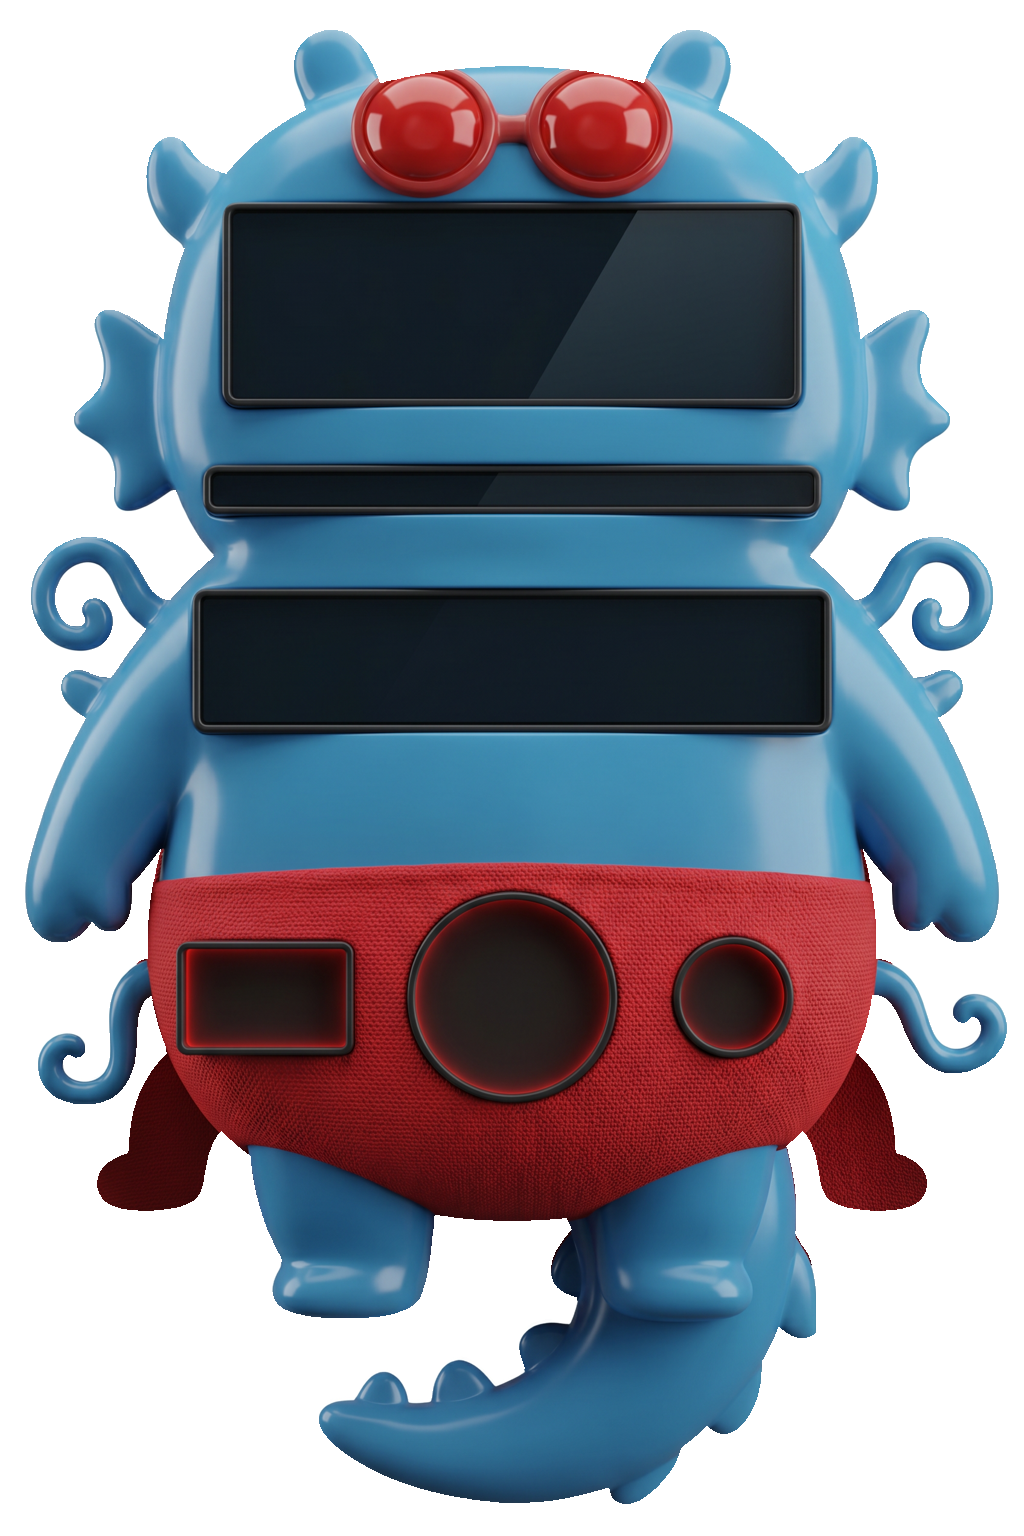
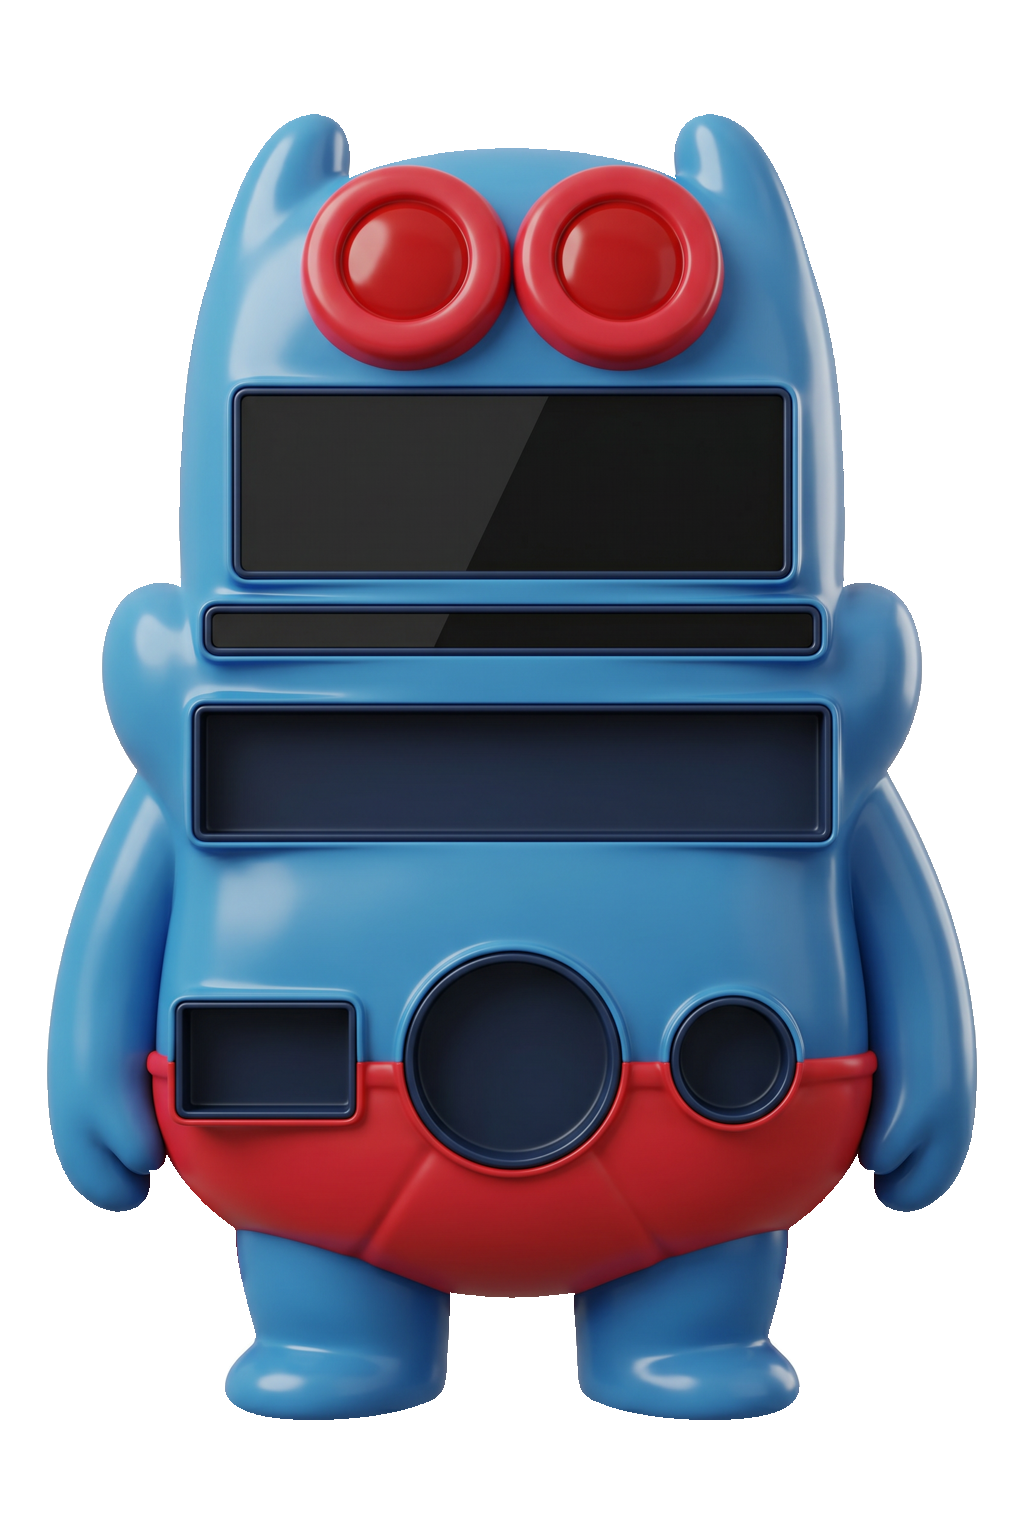
Man Ray: reference-driven silhouette + eyes on head (follow ref harder)
- Envelope generation now follows the REFERENCE image's shape, not just the text
  brief: gen_envelope takes ref_urls and the ENVELOPE_PROMPT steers the grown
  silhouette to the reference character's outline. Refs uploaded up front in
  main() (shape + paint).
- layout_manray: lowered the visualizer onto the chest so the upper head is free
  for the character's big round eyes (they were getting covered).
- Regenerated manray: upright front-facing chubby blue baby, red goggle-eyes,
  red diaper — clearly the reference character, controls placed properly (an
  over-literal pass rendered the crawling pose with floating controls; upright +
  reference-character is the sweet spot).

diff --git a/src/export/MotionScenes.tsx b/src/export/MotionScenes.tsx
@@ -13,18 +13,19 @@ const POOL = [
   "frog", "bondi", "burger", "maw", "halo", "biomech", "wmp", "scarab",
   "pebble", "obelisk", "vortex", "flesh", "tomato", "mexico", "slab",
 ];
-const slice = (start: number, n: number) =>
-  Array.from({ length: n }, (_, i) => POOL[(start + i) % POOL.length]);
+const slice = (arr: string[], start: number, n: number) =>
+  Array.from({ length: n }, (_, i) => arr[(start + i) % arr.length]);
 
 /* STREAMS — vertical columns of live devices scrolling in alternating
    directions, varied speed. Seamless: each column renders its set twice. */
-function Streams({ cols }: { cols: number }) {
+function Streams({ cols, skins }: { cols: number; skins: string[] }) {
   const dur = [24, 19, 28, 22, 26];
   const w = Math.round((1080 - 80) / cols - 26);   // fit width, no horizontal clip
+  const per = Math.max(2, Math.ceil(skins.length / cols));
   return (
     <div className="mg-streams" style={{ ["--cols" as string]: cols }}>
       {Array.from({ length: cols }, (_, c) => {
-        const items = slice(c * 3, 2);
+        const items = slice(skins, c * per, per);
         return (
           <div className="mg-col" key={c}>
             <div className={`mg-col-track ${c % 2 === 0 ? "up" : "down"}`} style={{ animationDuration: `${dur[c % dur.length]}s` }}>
@@ -42,7 +43,7 @@ function Swarm() {
   const N = 4;
   const lane = (dir: string, start: number) => (
     <div className={`mg-diag ${dir}`}>
-      {slice(start, N).map((id, i) => (
+      {slice(POOL, start, N).map((id, i) => (
         <div className="mg-fly" key={i} style={{ animationDelay: `${-(i * (14 / N)).toFixed(2)}s` }}>
           <Device skin={id} w={300} />
         </div>
@@ -53,8 +54,8 @@ function Swarm() {
 }
 
 /* PARADE — a horizontal conveyor of live devices, gentle bob. */
-function Parade() {
-  const items = slice(0, 4);
+function Parade({ skins }: { skins: string[] }) {
+  const items = skins.length <= 6 ? skins : slice(skins, 0, 5);
   return (
     <div className="mg-parade">
       <div className="mg-parade-track">
@@ -70,8 +71,8 @@ function Parade() {
 
 /* ORBIT — a ring of live skins revolving around a featured center, each
    counter-rotating to stay upright. */
-function Orbit({ center }: { center: string }) {
-  const ring = slice(1, 7).filter((s) => s !== center).slice(0, 6);
+function Orbit({ center, skins }: { center: string; skins: string[] }) {
+  const ring = skins.filter((s) => s !== center).slice(0, 6);
   const n = ring.length;
   return (
     <div className="mg-orbit">
@@ -89,7 +90,7 @@ function Orbit({ center }: { center: string }) {
 
 /* CASCADE — live devices fall in staggered with a springy ease, then float. */
 function Cascade() {
-  const items = slice(2, 8);
+  const items = slice(POOL, 2, 8);
   return (
     <div className="mg-cascade">
       {items.map((id, i) => (
@@ -126,15 +127,16 @@ function Fan({ mode, anchor }: { mode: "static" | "out" | "in"; anchor: "center"
 }
 
 export function MotionScenes({ scene, cfg, center }: { scene: string; cfg: Cfg; center?: string }) {
+  const P = cfg.skins && cfg.skins.length ? cfg.skins : POOL;
   const body =
     scene === "swarm" ? <Swarm /> :
-    scene === "parade" ? <Parade /> :
-    scene === "orbit" ? <Orbit center={center ?? "maw"} /> :
+    scene === "parade" ? <Parade skins={P} /> :
+    scene === "orbit" ? <Orbit center={center ?? "maw"} skins={P} /> :
     scene === "cascade" ? <Cascade /> :
     scene === "fan" ? <Fan mode="static" anchor="center" /> :
     scene === "fanout" ? <Fan mode="out" anchor="center" /> :
     scene === "fanbottom" ? <Fan mode="static" anchor="bottom" /> :
     scene === "fanin" ? <Fan mode="in" anchor="bottom" /> :
-    <Streams cols={cfg.cols || 3} />;
+    <Streams cols={cfg.cols || 3} skins={P} />;
   return <div className={`mg-stage scene-${scene}`}>{body}</div>;
 }

diff --git a/generation/wild_sculpt.py b/generation/wild_sculpt.py
@@ -127,10 +127,12 @@ def gen_silhouette(brief, out_id, sil_path=None):
 ENVELOPE_PROMPT = (
     "Keep every dark control socket, round well, ring groove and dark screen EXACTLY where it is, "
     "pixel-identical, unchanged. Around and BEHIND them, paint ONE flat solid dark-gray SILHOUETTE "
-    "shape on the pure white background: the outline of {brief}. The silhouette must fully CONTAIN "
-    "every socket and screen with generous margin on all sides, and its wild parts — horns, fins, "
-    "tendrils, legs, jaws — grow outward from that mass. Completely flat dark-gray fill, no interior "
-    "detail, no shading, no outline strokes. Everything else stays pure white."
+    "shape on the pure white background: the outline of {brief}. If a REFERENCE image is provided, "
+    "the silhouette MUST closely follow that reference character's distinctive OUTLINE — its head "
+    "shape, body proportions, ears/horns, arms, legs, tail and pose — NOT a generic rounded blob. "
+    "The silhouette must still fully CONTAIN every socket and screen with margin; grow/inflate the "
+    "reference's body where needed so the controls fit inside it. Completely flat dark-gray fill, no "
+    "interior detail, no shading, no outline strokes. Everything else stays pure white."
 )
 
 def layout_radial():
@@ -268,18 +270,19 @@ def layout_manray():
                      "layer": kw.pop("layer", "components"),
                      "rect": {"x": x/W, "y": y/H, "w": w/W, "h": h/H}, **kw})
     cx = W/2
-    # wide visualizer set into the flat manta-ray head
-    vw, vh = W*0.56, H*0.130
-    add("visualizer", "display", cx-vw/2, H*0.135, vw, vh,
+    # leave the UPPER head (top ~18%) free for the character's big eyes — the
+    # visualizer sits on the chest below the face, not over the eyes
+    vw, vh = W*0.54, H*0.120
+    add("visualizer", "display", cx-vw/2, H*0.255, vw, vh,
         content="dynamic", layer="screen", dynamicType="visualizer")
-    # marquee strip under the head
-    add("marquee", "display", cx-W*0.30, H*0.305, W*0.60, 46,
+    # marquee strip under the visualizer
+    add("marquee", "display", cx-W*0.30, H*0.395, W*0.60, 46,
         content="dynamic", layer="screen", dynamicType="marquee")
-    # NOVEL 'bolt' scrub spanning the chest — a rect well; React draws a zigzag path
-    sw, sh = W*0.62, H*0.090
-    add("seek", "slider-path", cx-sw/2, H*0.385, sw, sh, bind="seek", label="Seek")
+    # NOVEL 'bolt' scrub — a rect well; React draws a zigzag path
+    sw, sh = W*0.62, H*0.085
+    add("seek", "slider-path", cx-sw/2, H*0.46, sw, sh, bind="seek", label="Seek")
     # transport: SHUFFLE toggle · PLAY (dominant) · NEXT
-    by = H*0.58
+    by = H*0.62
     play_d = W*0.205
     add("play", "button", cx-play_d/2, by, play_d, play_d, bind="play", label="play", shape="ellipse")
     nd = W*0.115
@@ -322,10 +325,12 @@ def region_mask(regs):
             d.rectangle([x0, y0, x1, y1], fill=255)
     return ndimage.binary_dilation(np.asarray(img) > 0, iterations=10)
 
-def gen_envelope(wells_img, brief, out_id):
+def gen_envelope(wells_img, brief, out_id, ref_urls=None):
     tmp = os.path.join(G.HERE, f"_wells-{out_id}.png"); wells_img.save(tmp)
     cu = G.upload(tmp)
-    job = G.submit(cu, ENVELOPE_PROMPT.format(brief=brief))
+    # ref_urls (the reference character) steer the SHAPE of the grown silhouette so
+    # it follows the reference's outline instead of a generic blob
+    job = G.submit(cu, ENVELOPE_PROMPT.format(brief=brief), ref_urls or [])
     t0 = time.time()
     while True:
         s = G.get(job["status_url"]).get("status")
@@ -569,6 +574,9 @@ def usable(regs):
             d["marquee"]["w"] >= 0.15)
 
 def main(out_id, style, brief, sil_path=None, variant="classic", refs=None):
+    # upload refs up front — they steer BOTH the grown silhouette shape (envelope)
+    # and the paint palette/material, so the body follows the reference character
+    ref_urls = [G.upload(p) for p in (refs or []) if os.path.exists(p)]
     if variant in ("radial", "capsule", "minimal", "manray"):
         # LAYOUT FIRST: the arc-native template exists before any body does;
         # the image model grows the creature AROUND the drawn controls
@@ -578,7 +586,7 @@ def main(out_id, style, brief, sil_path=None, variant="classic", refs=None):
         wells = draw_wells_only(regs)
         rmask = region_mask(regs)
         for attempt in range(3):
-            mask = gen_envelope(wells, brief, out_id)
+            mask = gen_envelope(wells, brief, out_id, ref_urls)
             if mask is not None:
                 mask = ndimage.binary_fill_holes(mask | rmask)
             if mask is not None and covers(mask, regs):
@@ -598,9 +606,8 @@ def main(out_id, style, brief, sil_path=None, variant="classic", refs=None):
     bp = draw_blueprint(mask, regs)
     bp_path = os.path.join(G.HERE, f"_sculpt-{out_id}.png"); bp.save(bp_path)
     cu = G.upload(bp_path)
-    # reference-style images steer the paint pass (material/color/detail) while
-    # the blueprint stays the layout authority — uploaded as extra image_urls
-    ref_urls = [G.upload(p) for p in (refs or []) if os.path.exists(p)]
+    # ref_urls (computed above) also steer the paint pass (material/color/detail)
+    # while the blueprint stays the layout authority — passed as extra image_urls
     prompt = STYLE_PROMPT + MATERIAL.get(style, MATERIAL["winamp"])
     if ref_urls:
         prompt += (" Borrow the palette, materials and surface-detail vocabulary "
